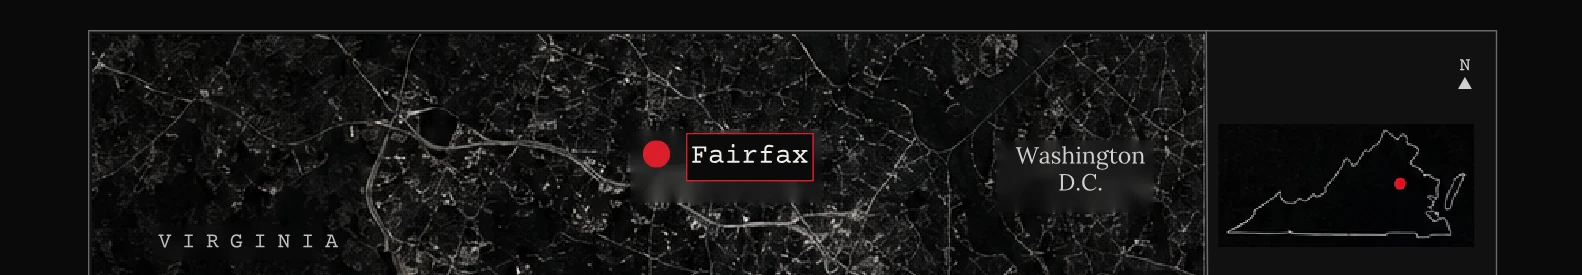
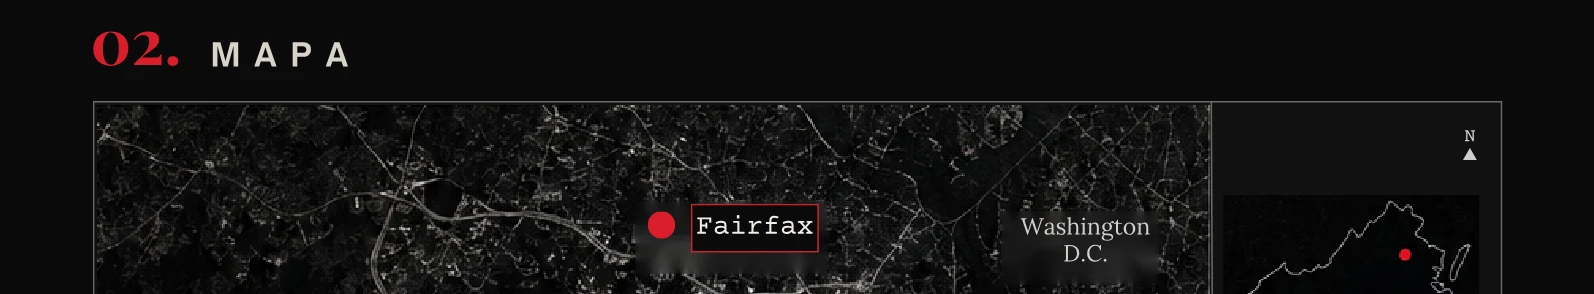
Fix Banfield desktop map crop to exclude section title band.
Align fig-mapa with the clean map body fractions, republish the v3 asset, and refresh QA manifest verification PNGs.

diff --git a/src/lib/dossier/processing-config.ts b/src/lib/dossier/processing-config.ts
@@ -377,10 +377,10 @@ export const BANFIELD_HTML_FIGURE_CROPS: HtmlFigureCrop[] = [
   },
   {
     assetId: "fig-mapa",
-    xStart: 0.012,
-    xEnd: 0.988,
-    yStart: 0.405,
-    yEnd: 0.5,
+    xStart: 0.009,
+    xEnd: 0.992,
+    yStart: 0.38,
+    yEnd: 0.482,
   },
 ];
 
